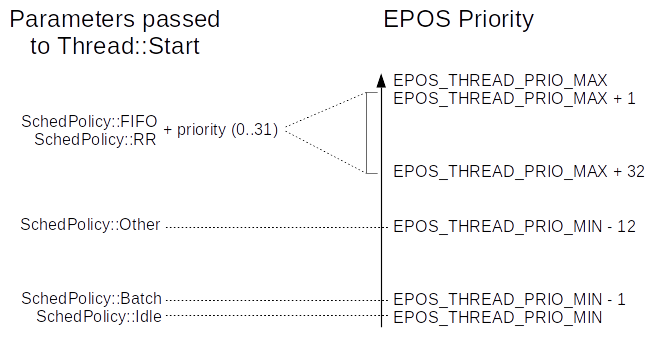
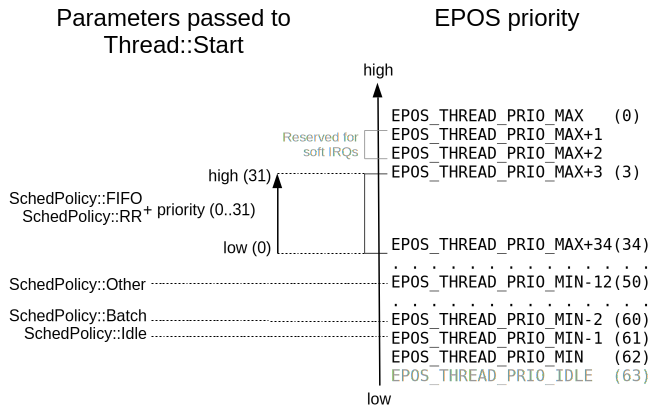
feat(OSAL for EPOS): Consider soft IRQs in priority mapping (#75)
The priority scheme on the EPOS operating system has changed
since soft IRQ have been added to EPOS. With this PR, the OSAL
variant for EPOS takes the new scheme into account.

diff --git a/src/osal/os/epos_arm/Thread.cpp b/src/osal/os/epos_arm/Thread.cpp
@@ -16,6 +16,7 @@
 #include <gpcc/raii/scope_guard.hpp>
 #include <gpcc/raii/unique_c_ptr.hpp>
 #include <gpcc/string/StringComposer.hpp>
+#include <epos/epos_conf.h>
 #include <stdexcept>
 #include <system_error>
 #include <cerrno>
@@ -829,20 +830,33 @@ void* Thread::InternalThreadEntry2(void)
  */
 epos_threadprio_t Thread::UniversalPrioToEPOSPrio(priority_t const priority, SchedPolicy const schedpolicy) const
 {
-  static_assert((maxPriority - minPriority + 1U) == 32U,
-                "Thread::minPriority...Thread::maxPriority must provide 32 priority levels.");
+  #if !defined(EPOS_CONF_SOFTIRQ_NB_OF_PRIOS)
+    #error "EPOS version too old (no soft IRQs)";
+  #endif
 
-  static_assert((EPOS_THREAD_PRIO_MIN - EPOS_THREAD_PRIO_MAX + 1U) >= (1U + 32U + 13U),
-                "EPOS configuration does not provide enough priority levels.");
+  static_assert(maxPriority > minPriority);
 
-  #pragma GCC diagnostic push
-  #pragma GCC diagnostic ignored "-Wtype-limits"
-  if ((priority < minPriority) || (priority > maxPriority))
-    throw std::invalid_argument("Invalid sched. priority/policy");
-  #pragma GCC diagnostic pop
+  static_assert((EPOS_THREAD_PRIO_MIN - EPOS_THREAD_PRIO_MAX + 1U) >=
+                (  1U
+                 + EPOS_CONF_SOFTIRQ_NB_OF_PRIOS
+                 + (maxPriority - minPriority + 1U)
+                 + 12U),
+                "Configuration of EPOS thread priorities does not provide enough priorities for EPOS soft IRQs, " \
+                "GPCC 'RR'/'Fifo' threads, GPCC 'other' threads (one at bottom - 12), and the reserved top priority.");
 
-  if ((priority != 0U) && (schedpolicy != SchedPolicy::Fifo) && (schedpolicy != SchedPolicy::RR))
-    throw std::invalid_argument("Invalid sched. priority/policy");
+  if ((schedpolicy == SchedPolicy::Fifo) || (schedpolicy == SchedPolicy::RR))
+  {
+    #pragma GCC diagnostic push
+    #pragma GCC diagnostic ignored "-Wtype-limits"
+    if ((priority < minPriority) || (priority > maxPriority))
+      throw std::invalid_argument("Invalid sched. priority/policy");
+    #pragma GCC diagnostic pop
+  }
+  else
+  {
+    if (priority != 0U)
+      throw std::invalid_argument("Invalid sched. priority/policy");
+  }
 
   epos_threadprio_t prio = 0U;
   switch (schedpolicy)
@@ -866,7 +880,7 @@ epos_threadprio_t Thread::UniversalPrioToEPOSPrio(priority_t const priority, Sch
     case SchedPolicy::Fifo:
       // intentional fall-through
     case SchedPolicy::RR:
-      prio = (EPOS_THREAD_PRIO_MAX + 32U) - priority;
+      prio = (EPOS_THREAD_PRIO_MAX + EPOS_CONF_SOFTIRQ_NB_OF_PRIOS + (maxPriority - minPriority + 1U)) - (priority - minPriority);
       break;
   }
 
